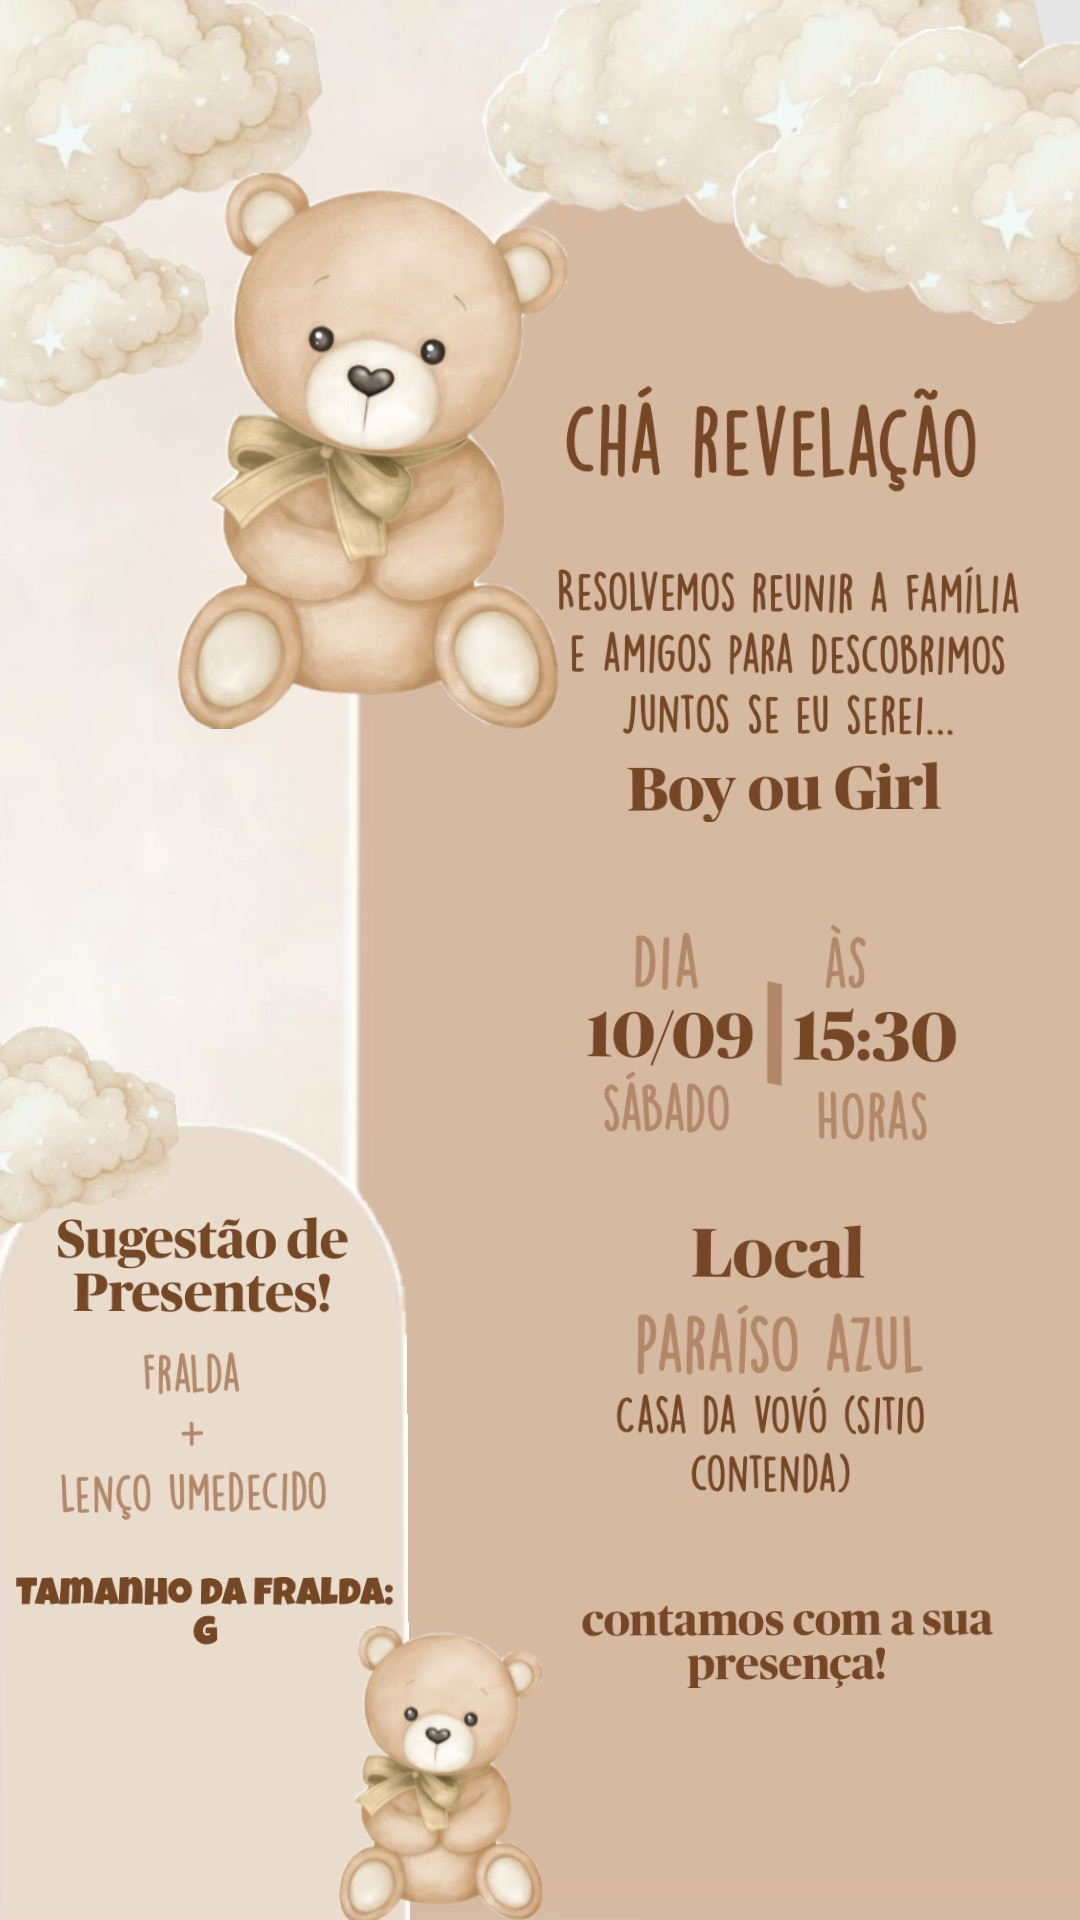
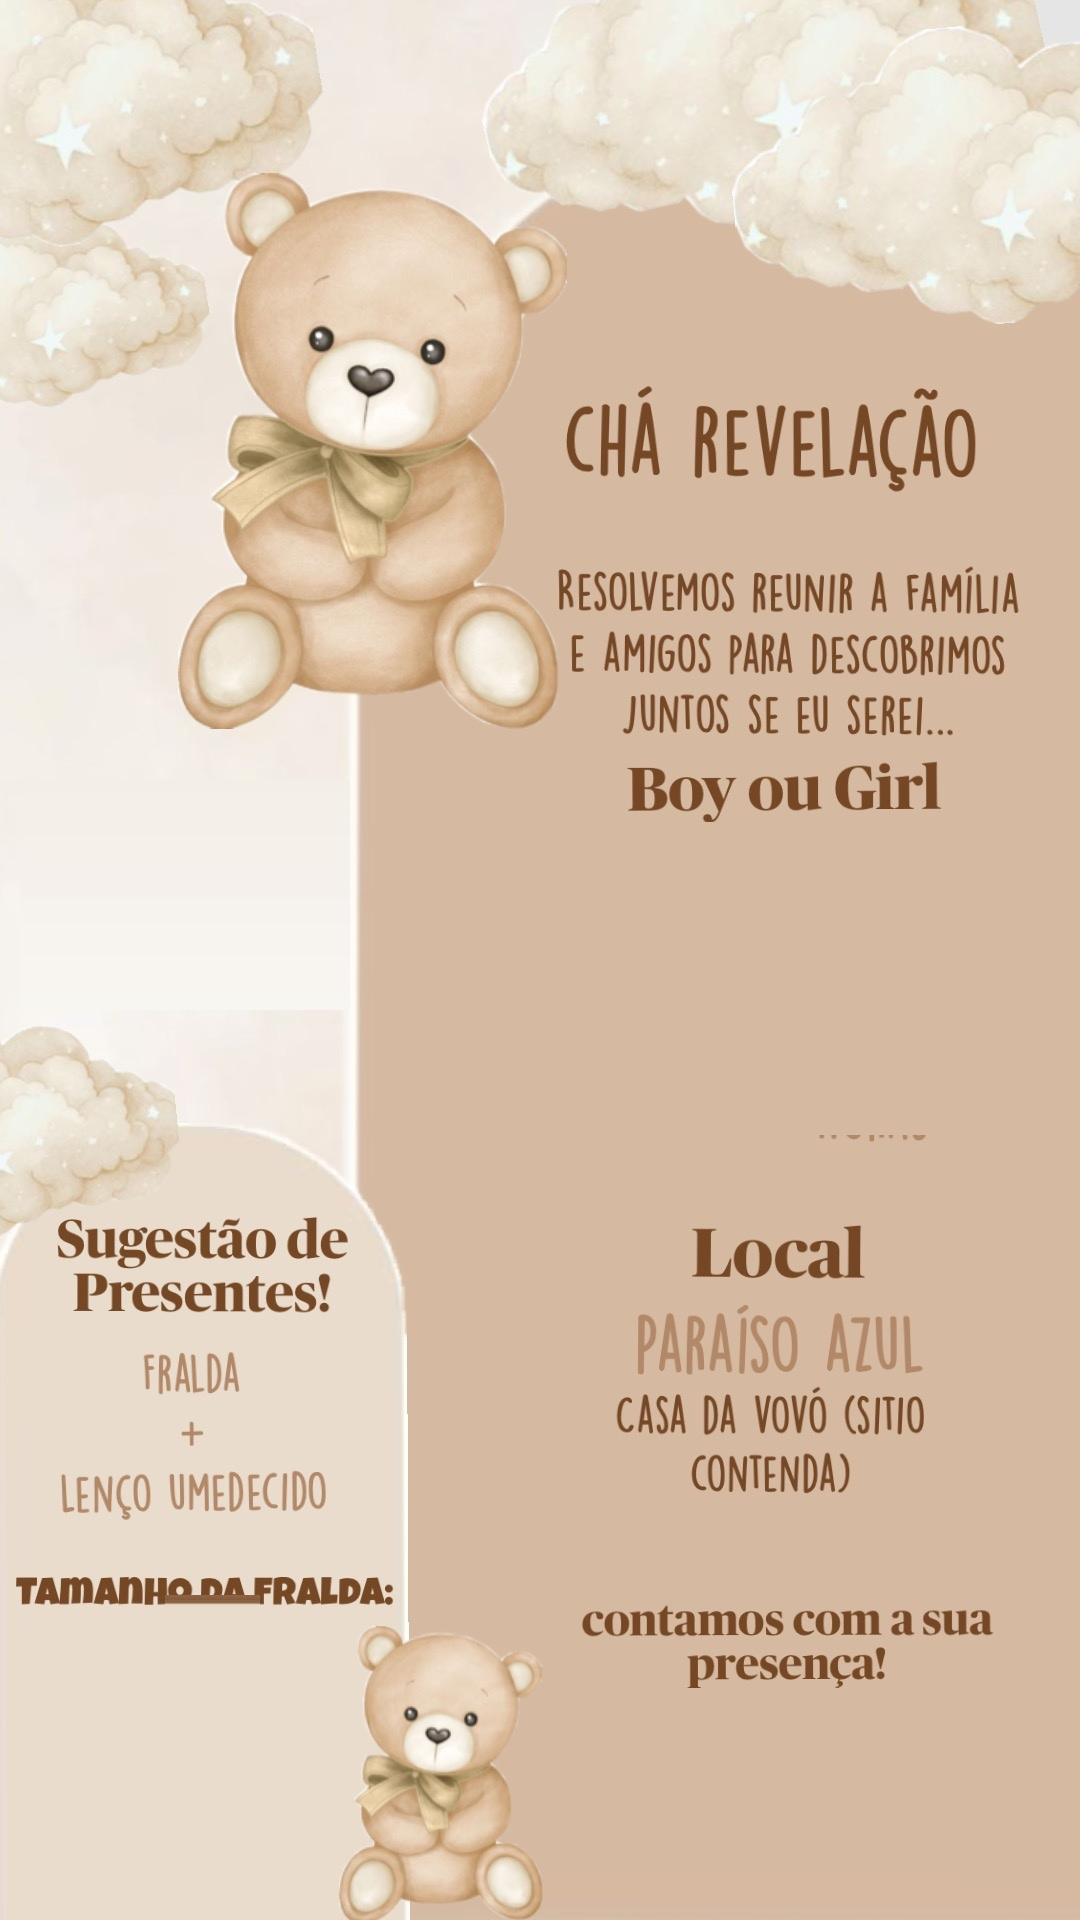
ATUALIZAÇÃO 10/10 FINAL LEMBRETE

Changed region(s): [[0.55, 0.4688, 0.8861, 0.5938], [0.1528, 0.8125, 0.2444, 0.875]]

diff --git a/index.html b/index.html
@@ -428,7 +428,7 @@ textarea{min-height:124px;resize:vertical;line-height:1.5}
 
   const MAPS_URL = "https://maps.app.goo.gl/kLAfypuQsnPy7Ydy7?g_st=ic";
   const WHATSAPP_GROUP_URL = "https://chat.whatsapp.com/KYyxdMVLuy3DoCwOqxIsLY?s=cl&p=i&mlu=4&ilr=4";
-  const REMINDER_TEMPLATE_URL = "./convite-base.jpg";
+  const REMINDER_TEMPLATE_URL = "./convite-template-v3.jpg";
 
   const configured =
     typeof SUPABASE_URL === "string" &&
@@ -469,6 +469,7 @@ textarea{min-height:124px;resize:vertical;line-height:1.5}
 
   let state = null;
   let lastReminderDataUrl = null;
+  const REMINDER_VERSION = "v3";
 
   async function tryAdminLogin(code){
     if(!db) return false;
@@ -805,74 +806,79 @@ textarea{min-height:124px;resize:vertical;line-height:1.5}
     const w = canvas.width;
     const h = canvas.height;
 
-    // 1) Corrige o bloco de data/horário da arte-base.
-    // Limpa TODO o bloco antigo para não sobrar nenhum pedaço de "10/09" ou "15:30".
-    ctx.fillStyle = "#d5b9a1";
-    ctx.fillRect(w*0.505, h*0.438, w*0.455, h*0.175);
+    // Base V3 já vem limpa: sem data antiga, sem tamanho antigo e sem nome.
+    // Aqui desenhamos SOMENTE os dados atuais, evitando sobreposição.
 
     ctx.textAlign = "center";
     ctx.textBaseline = "middle";
 
-    const dateX = w*0.625;
-    const timeX = w*0.825;
-    const titleY = h*0.480;
-    const valueY = h*0.523;
-    const footerY = h*0.570;
+    // 1) Data e horário
+    const dateX = w * 0.615;
+    const timeX = w * 0.815;
+    const titleY = h * 0.486;
+    const valueY = h * 0.526;
+    const footerY = h * 0.566;
 
-    ctx.fillStyle = "#a87956";
-    ctx.font = `700 ${Math.round(w*0.036)}px "Trebuchet MS", Arial, sans-serif`;
+    ctx.fillStyle = "#aa7b59";
+    ctx.font = `700 ${Math.round(w*0.040)}px "Trebuchet MS", Arial, sans-serif`;
     ctx.fillText("DIA", dateX, titleY);
     ctx.fillText("ÀS", timeX, titleY);
 
     ctx.fillStyle = "#704020";
-    ctx.font = `700 ${Math.round(w*0.052)}px Georgia, serif`;
+    ctx.font = `700 ${Math.round(w*0.058)}px Georgia, "Times New Roman", serif`;
     ctx.fillText("10/10", dateX, valueY);
     ctx.fillText("15:30", timeX, valueY);
 
-    // Separador central.
+    // Divisor central
     ctx.fillStyle = "#b7845e";
-    ctx.fillRect(w*0.718, h*0.492, w*0.012, h*0.067);
+    ctx.fillRect(w*0.710, h*0.500, w*0.012, h*0.055);
 
-    ctx.fillStyle = "#a87956";
-    ctx.font = `700 ${Math.round(w*0.031)}px "Trebuchet MS", Arial, sans-serif`;
+    ctx.fillStyle = "#aa7b59";
+    ctx.font = `700 ${Math.round(w*0.034)}px "Trebuchet MS", Arial, sans-serif`;
     ctx.fillText("SÁBADO", dateX, footerY);
     ctx.fillText("HORAS", timeX, footerY);
 
-    // 2) Nome do grupo/família na posição solicitada (~17% x / 46% y).
-    // Limpa suavemente a área branca e desenha o texto sem tocar no presente.
-    ctx.fillStyle = "rgba(247,243,235,.96)";
-    ctx.fillRect(w*0.018, h*0.402, w*0.315, h*0.115);
-
+    // 2) Nome da pessoa/grupo/família na posição pedida (~17% x / 46% y)
     ctx.fillStyle = "#704020";
     ctx.textAlign = "center";
     ctx.textBaseline = "middle";
 
-    const centerX = w*0.175;
-    const maxNameWidth = w*0.29;
-    let nameSize = fitFont(ctx, state.group, maxNameWidth, Math.round(w*0.040), Math.round(w*0.026));
-    ctx.font = `700 ${nameSize}px Georgia, serif`;
+    const centerX = w * 0.175;
+    const maxNameWidth = w * 0.30;
+    let nameSize = fitFont(
+      ctx,
+      state.group,
+      maxNameWidth,
+      Math.round(w*0.041),
+      Math.round(w*0.024)
+    );
+
+    ctx.font = `700 ${nameSize}px Georgia, "Times New Roman", serif`;
     let lines = wrapText(ctx, state.group, maxNameWidth);
+
     if(lines.length > 3){
-      nameSize = Math.round(w*0.025);
-      ctx.font = `700 ${nameSize}px Georgia, serif`;
+      nameSize = Math.round(w*0.024);
+      ctx.font = `700 ${nameSize}px Georgia, "Times New Roman", serif`;
       lines = wrapText(ctx, state.group, maxNameWidth);
     }
 
-    const lineHeight = nameSize*1.13;
-    const startY = h*0.458 - ((lines.length-1)*lineHeight)/2;
-    lines.slice(0,3).forEach((line,i)=>ctx.fillText(line,centerX,startY+i*lineHeight));
+    const lineHeight = nameSize * 1.15;
+    const startY = h * 0.462 - ((Math.min(lines.length,3)-1) * lineHeight)/2;
+    lines.slice(0,3).forEach((line,i)=>{
+      ctx.fillText(line, centerX, startY + i*lineHeight);
+    });
 
-    // 3) Tamanho da fralda: SEM valor manual.
-    // Mantém o texto original "TAMANHO DA FRALDA:" e apaga SOMENTE a letra antiga (G)
-    // antes de escrever RN/P/M/G diretamente do retorno do Supabase.
-    ctx.fillStyle = "#e9dccc";
-    ctx.fillRect(w*0.145, h*0.835, w*0.095, h*0.052);
-
+    // 3) Tamanho da fralda: vem EXCLUSIVAMENTE do Supabase.
+    // Não existe RN/P/M/G fixo neste template.
     ctx.fillStyle = "#704020";
     ctx.textAlign = "center";
     ctx.textBaseline = "middle";
-    ctx.font = `900 ${Math.round(w*0.040)}px Arial, sans-serif`;
-    ctx.fillText(String(state.diaper || "").toUpperCase(), w*0.193, h*0.858);
+    ctx.font = `900 ${Math.round(w*0.041)}px Arial, sans-serif`;
+    ctx.fillText(
+      String(state.diaper || "").toUpperCase(),
+      w * 0.193,
+      h * 0.847
+    );
 
     return canvas.toDataURL("image/jpeg",0.94);
   }
